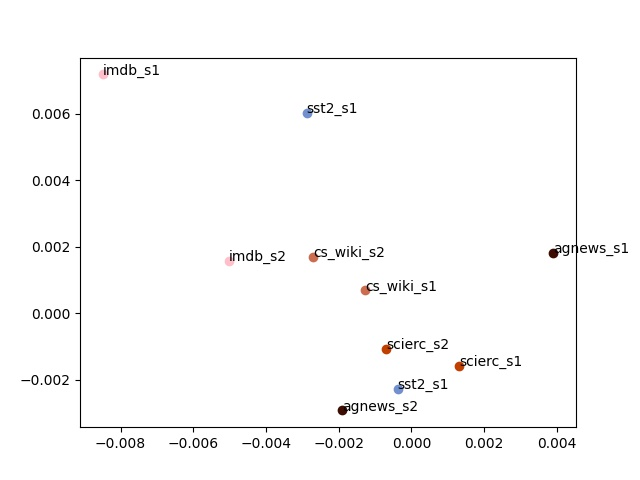
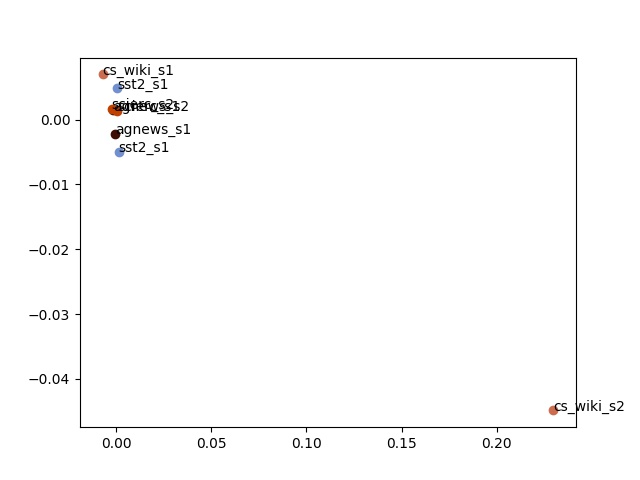
update

diff --git a/draw_cuda_mlmprompt_split.py b/draw_cuda_mlmprompt_split.py
@@ -140,14 +140,15 @@ imdb_s2_ten = torch.load(path).view(76800).to("cpu")
 #task_map={0:"sst2",1:"rte",2:"re",3:"MNLI",4:"MRPC",5:"QNLI",6:"QQP",7:"WNLI",8:"STSB",9:"laptop",10:"restaurant",11:"IMDB"}
 
 #task_map={0:"restaurant",1:"laptop",2:"IMDB",3:"SST2",4:"MRPC"}
-task_map={0:"sst2_s1",1:"sst2_s1",2:"agnews_s1",3:"agnews_s2",4:"scierc_s1",5:"scierc_s2",6:"cs_wiki_s1",7:"cs_wiki_s2",8:"imdb_s1",9:"imdb_s2"}
+#task_map={0:"sst2_s1",1:"sst2_s1",2:"agnews_s1",3:"agnews_s2",4:"scierc_s1",5:"scierc_s2",6:"cs_wiki_s1",7:"cs_wiki_s2",8:"imdb_s1",9:"imdb_s2"}
+task_map={0:"sst2_s1",1:"sst2_s1",2:"agnews_s1",3:"agnews_s2",4:"scierc_s1",5:"scierc_s2",6:"cs_wiki_s1",7:"cs_wiki_s2"}
 
 
 #92%
 #all_prompt_emb = torch.stack([sst2_ten,rte_ten,re_ten,MNLI_ten,MRPC_ten,QNLI_ten,QQP_ten,WNLI_ten,STSB_ten,laptop_ten,restaurant_ten,IMDB_ten])
 #all_prompt_emb = torch.stack([restaurant_ten, laptop_ten, IMDB_ten, sst2_ten, MRPC_ten])
-all_prompt_emb = torch.stack([sst2_s1_ten, sst2_s2_ten, agnews_s1_ten, agnews_s2_ten, scierc_s1_ten, scierc_s2_ten, cs_wiki_s1_ten, cs_wiki_s2_ten, imdb_s1_ten, imdb_s2_ten])
-#all_prompt_emb = torch.stack([restaurant_ten, laptop_ten, IMDB_ten, sst2_ten])
+#all_prompt_emb = torch.stack([sst2_s1_ten, sst2_s2_ten, agnews_s1_ten, agnews_s2_ten, scierc_s1_ten, scierc_s2_ten, cs_wiki_s1_ten, cs_wiki_s2_ten, imdb_s1_ten, imdb_s2_ten])
+all_prompt_emb = torch.stack([sst2_s1_ten, sst2_s2_ten, agnews_s1_ten, agnews_s2_ten, scierc_s1_ten, scierc_s2_ten, cs_wiki_s1_ten, cs_wiki_s2_ten])
 
 #100%
 

diff --git a/dataset/cs_wikiDataset.py b/dataset/cs_wikiDataset.py
@@ -9,8 +9,8 @@ class cs_wikiDataset(Dataset):
     def __init__(self, config, mode, encoding="utf8", *args, **params):
         self.config = config
         self.mode = mode
-        # self.data_path = config.get("data", "%s_data_path" % mode)
-        self.data_path = config.get("data", "train_data_path")
+        self.data_path = config.get("data", "%s_data_path" % mode)
+        #self.data_path = config.get("data", "train_data_path")
         data = json.load(open(self.data_path, "r"))
 
         #emo_dict={"positive":2,"neutral":1,"negative":0,"conflict":3}

diff --git a/dataset/agnewsDataset.py b/dataset/agnewsDataset.py
@@ -9,8 +9,8 @@ class agnewsDataset(Dataset):
     def __init__(self, config, mode, encoding="utf8", *args, **params):
         self.config = config
         self.mode = mode
-        # self.data_path = config.get("data", "%s_data_path" % mode)
-        self.data_path = config.get("data", "train_data_path")
+        self.data_path = config.get("data", "%s_data_path" % mode)
+        #self.data_path = config.get("data", "train_data_path")
         data = json.load(open(self.data_path, "r"))
 
         #emo_dict={"positive":2,"neutral":1,"negative":0,"conflict":3}

diff --git a/dataset/sciercDataset.py b/dataset/sciercDataset.py
@@ -9,8 +9,8 @@ class sciercDataset(Dataset):
     def __init__(self, config, mode, encoding="utf8", *args, **params):
         self.config = config
         self.mode = mode
-        # self.data_path = config.get("data", "%s_data_path" % mode)
-        self.data_path = config.get("data", "train_data_path")
+        self.data_path = config.get("data", "%s_data_path" % mode)
+        #self.data_path = config.get("data", "train_data_path")
         data = json.load(open(self.data_path, "r"))
 
         #emo_dict={"positive":2,"neutral":1,"negative":0,"conflict":3}

diff --git a/dataset/WikiREDataset.py b/dataset/WikiREDataset.py
@@ -9,8 +9,8 @@ class WikiREDataset(Dataset):
     def __init__(self, config, mode, encoding="utf8", *args, **params):
         self.config = config
         self.mode = mode
-        # self.data_path = config.get("data", "%s_data_path" % mode)
-        self.data_path = config.get("data", "train_data_path")
+        self.data_path = config.get("data", "%s_data_path" % mode)
+        #self.data_path = config.get("data", "train_data_path")
         data = json.load(open(self.data_path, "r"))
         self.data = []
         for rel in data:

diff --git a/dataset/restaurantDataset.py b/dataset/restaurantDataset.py
@@ -9,8 +9,8 @@ class restaurantDataset(Dataset):
     def __init__(self, config, mode, encoding="utf8", *args, **params):
         self.config = config
         self.mode = mode
-        # self.data_path = config.get("data", "%s_data_path" % mode)
-        self.data_path = config.get("data", "train_data_path")
+        self.data_path = config.get("data", "%s_data_path" % mode)
+        #self.data_path = config.get("data", "train_data_path")
         data = json.load(open(self.data_path, "r"))
 
         '''

diff --git a/dataset/laptopDataset.py b/dataset/laptopDataset.py
@@ -9,8 +9,8 @@ class laptopDataset(Dataset):
     def __init__(self, config, mode, encoding="utf8", *args, **params):
         self.config = config
         self.mode = mode
-        # self.data_path = config.get("data", "%s_data_path" % mode)
-        self.data_path = config.get("data", "train_data_path")
+        self.data_path = config.get("data", "%s_data_path" % mode)
+        #self.data_path = config.get("data", "train_data_path")
         data = json.load(open(self.data_path, "r"))
 
         '''
